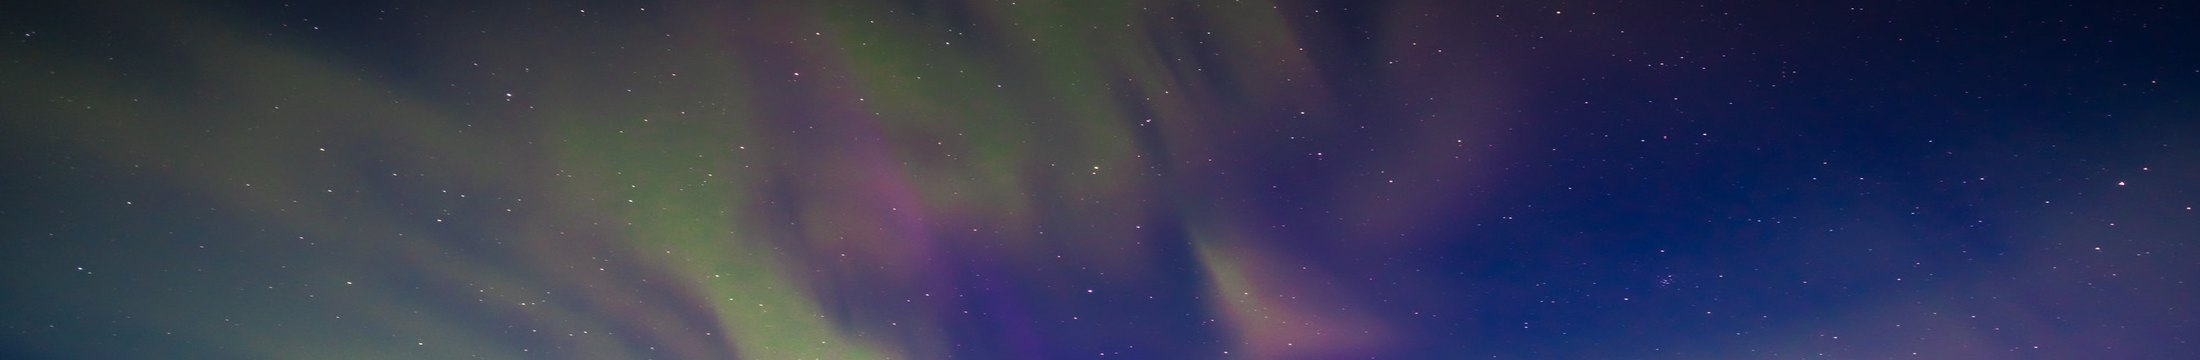
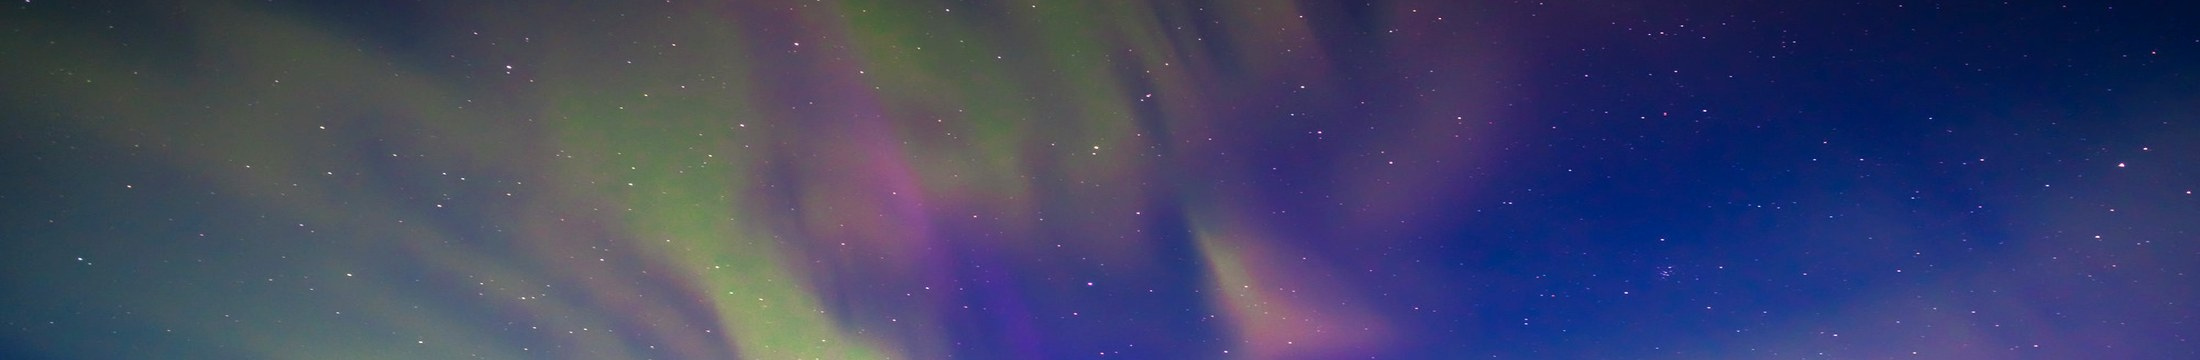
Brighten the aurora brand bar so the lights read under the wordmark
Lighten the masthead overlay and lift the northern-lights crop so sylvialovesiceland.com stays white on a visible aurora, not a solid navy slab.

diff --git a/css/site.css b/css/site.css
@@ -76,7 +76,7 @@ button { font: inherit; cursor: pointer; }
   content: "";
   position: absolute;
   inset: 0;
-  background: linear-gradient(90deg, rgba(6,24,32,.72) 0%, rgba(6,35,65,.58) 46%, rgba(6,24,32,.68) 100%);
+  background: linear-gradient(90deg, rgba(6,24,32,.42) 0%, rgba(6,35,65,.28) 48%, rgba(6,24,32,.40) 100%);
 }
 .hd-bar .inner {
   display: flex;
@@ -507,6 +507,9 @@ h3 { font-size: 16.4px; line-height: 1.25; }
 .ad-flora {
   border-color: var(--flora-navy);
   background: var(--flora-navy);
+}
+.ad-flora .ad-lbl {
+  color: #c5d0dc;
 }
 .ad-flora .ad-copy {
   background: linear-gradient(transparent, rgba(6, 35, 65, .88));
